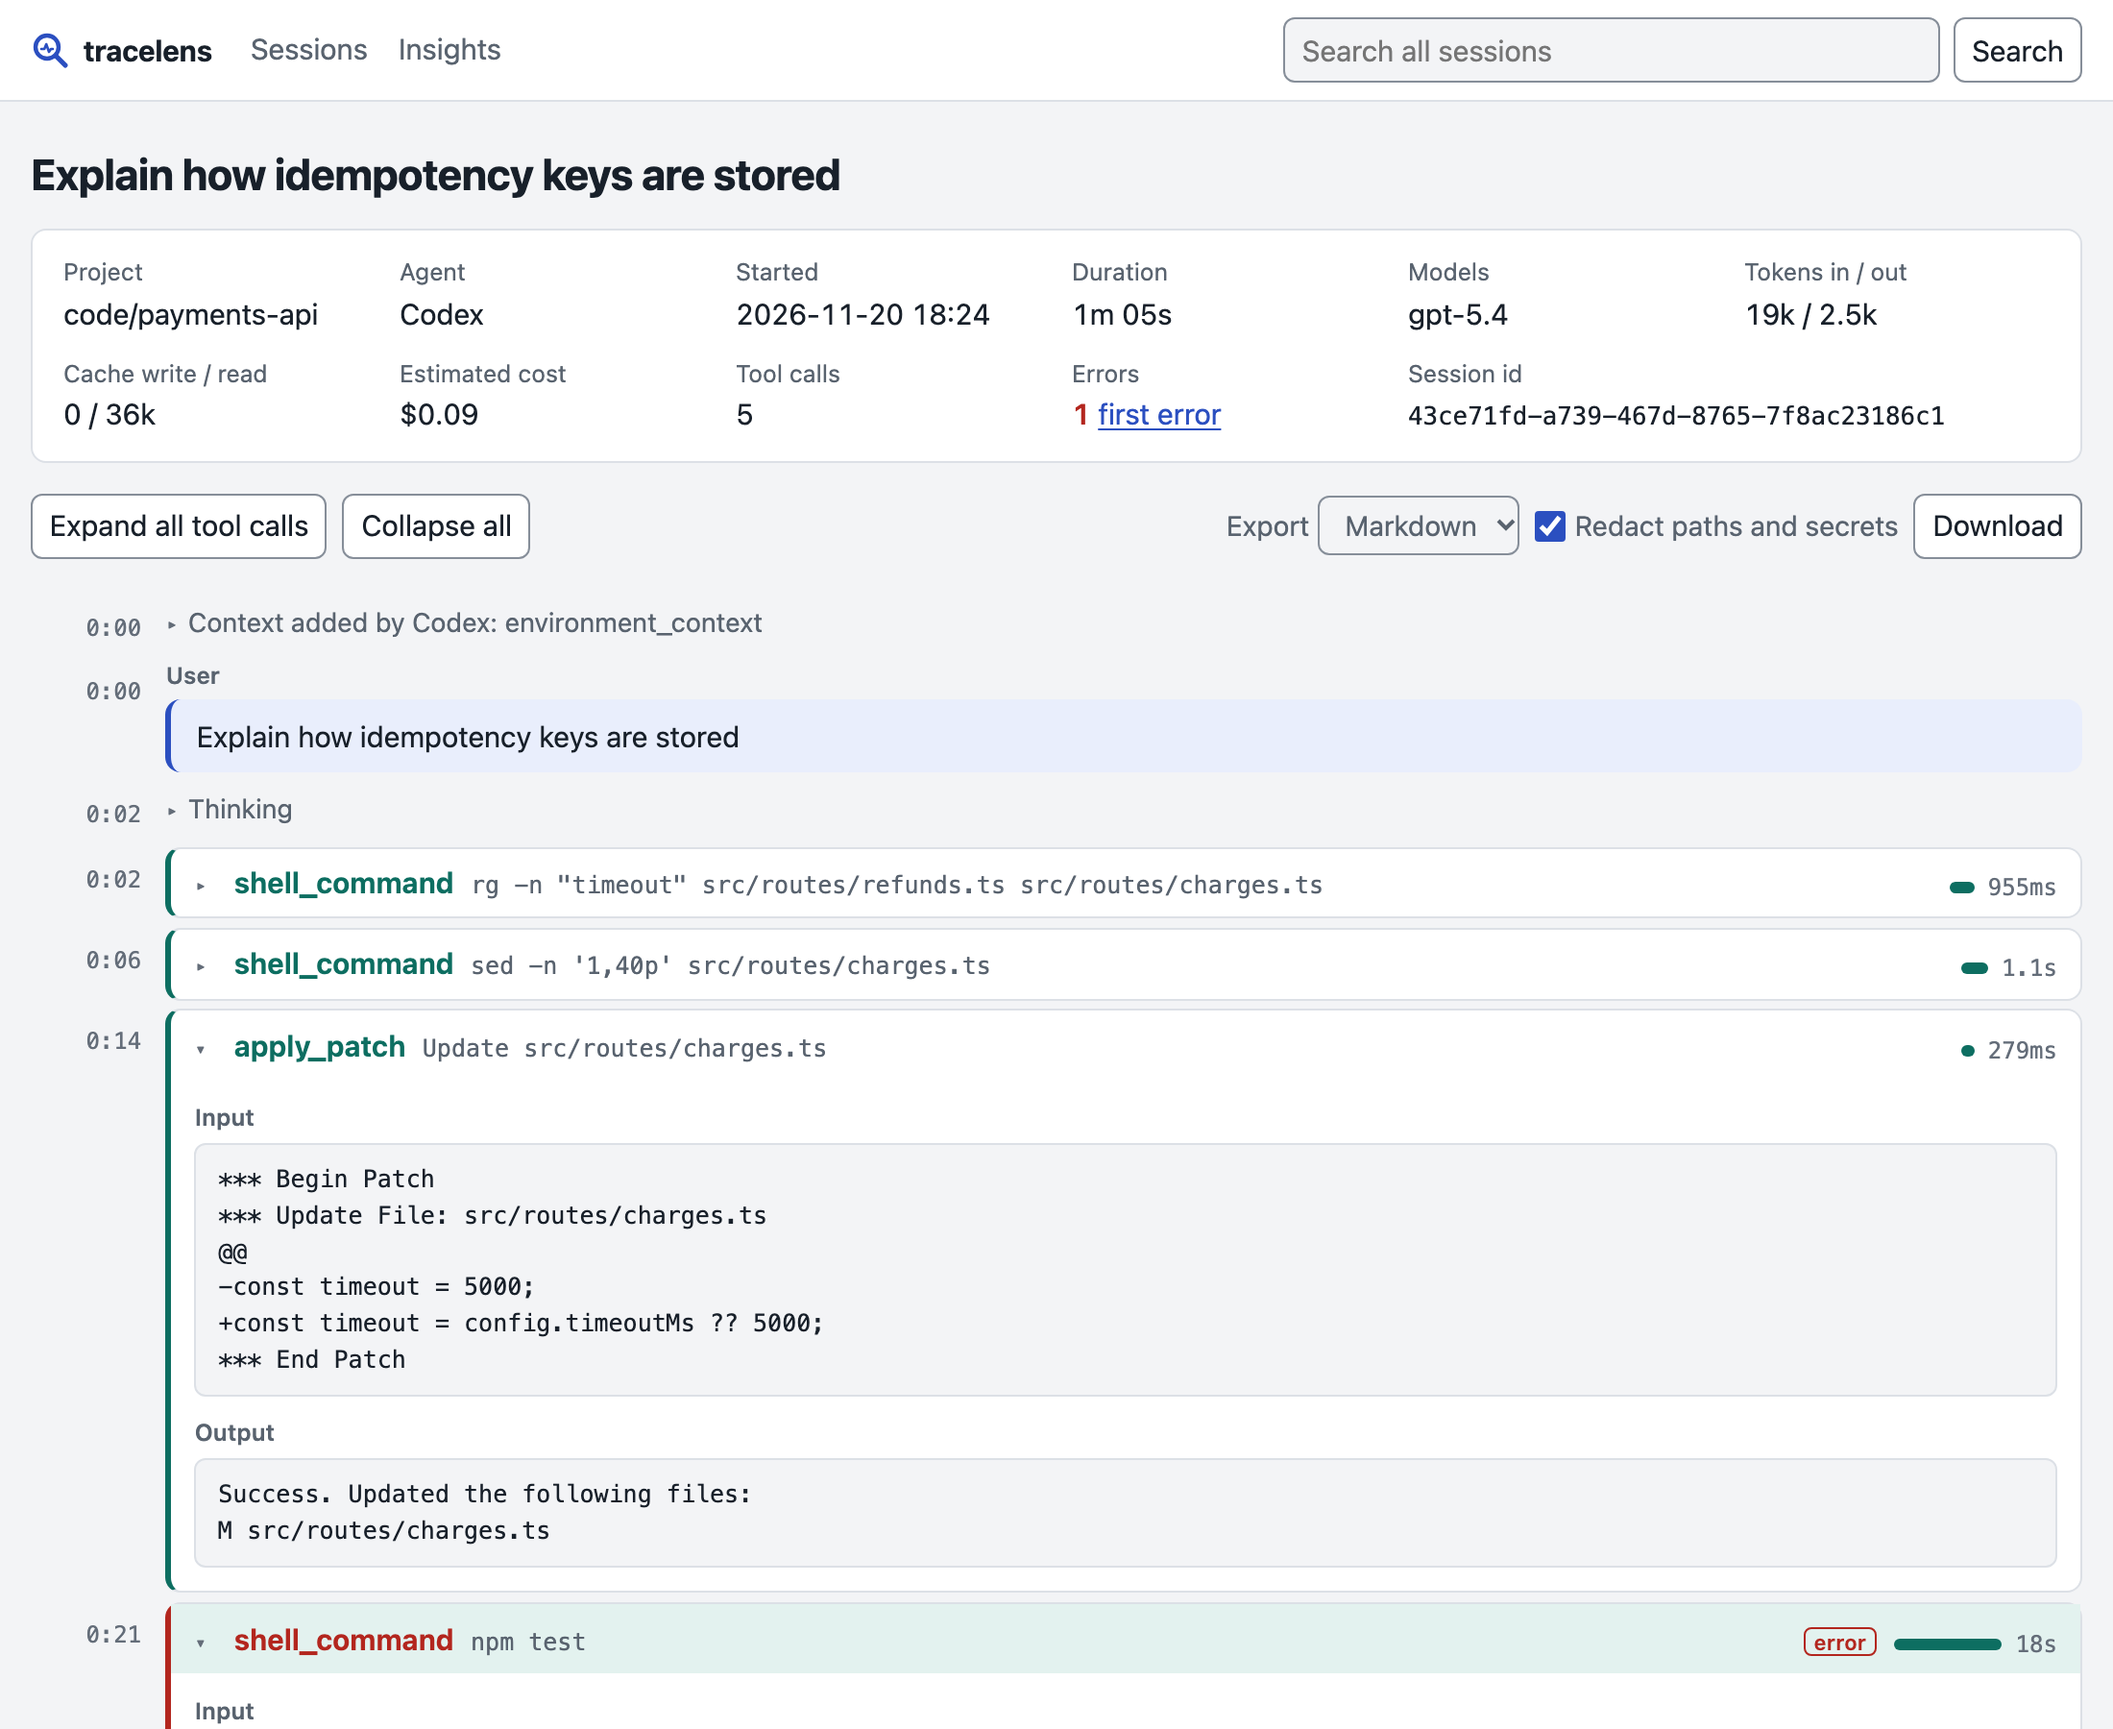
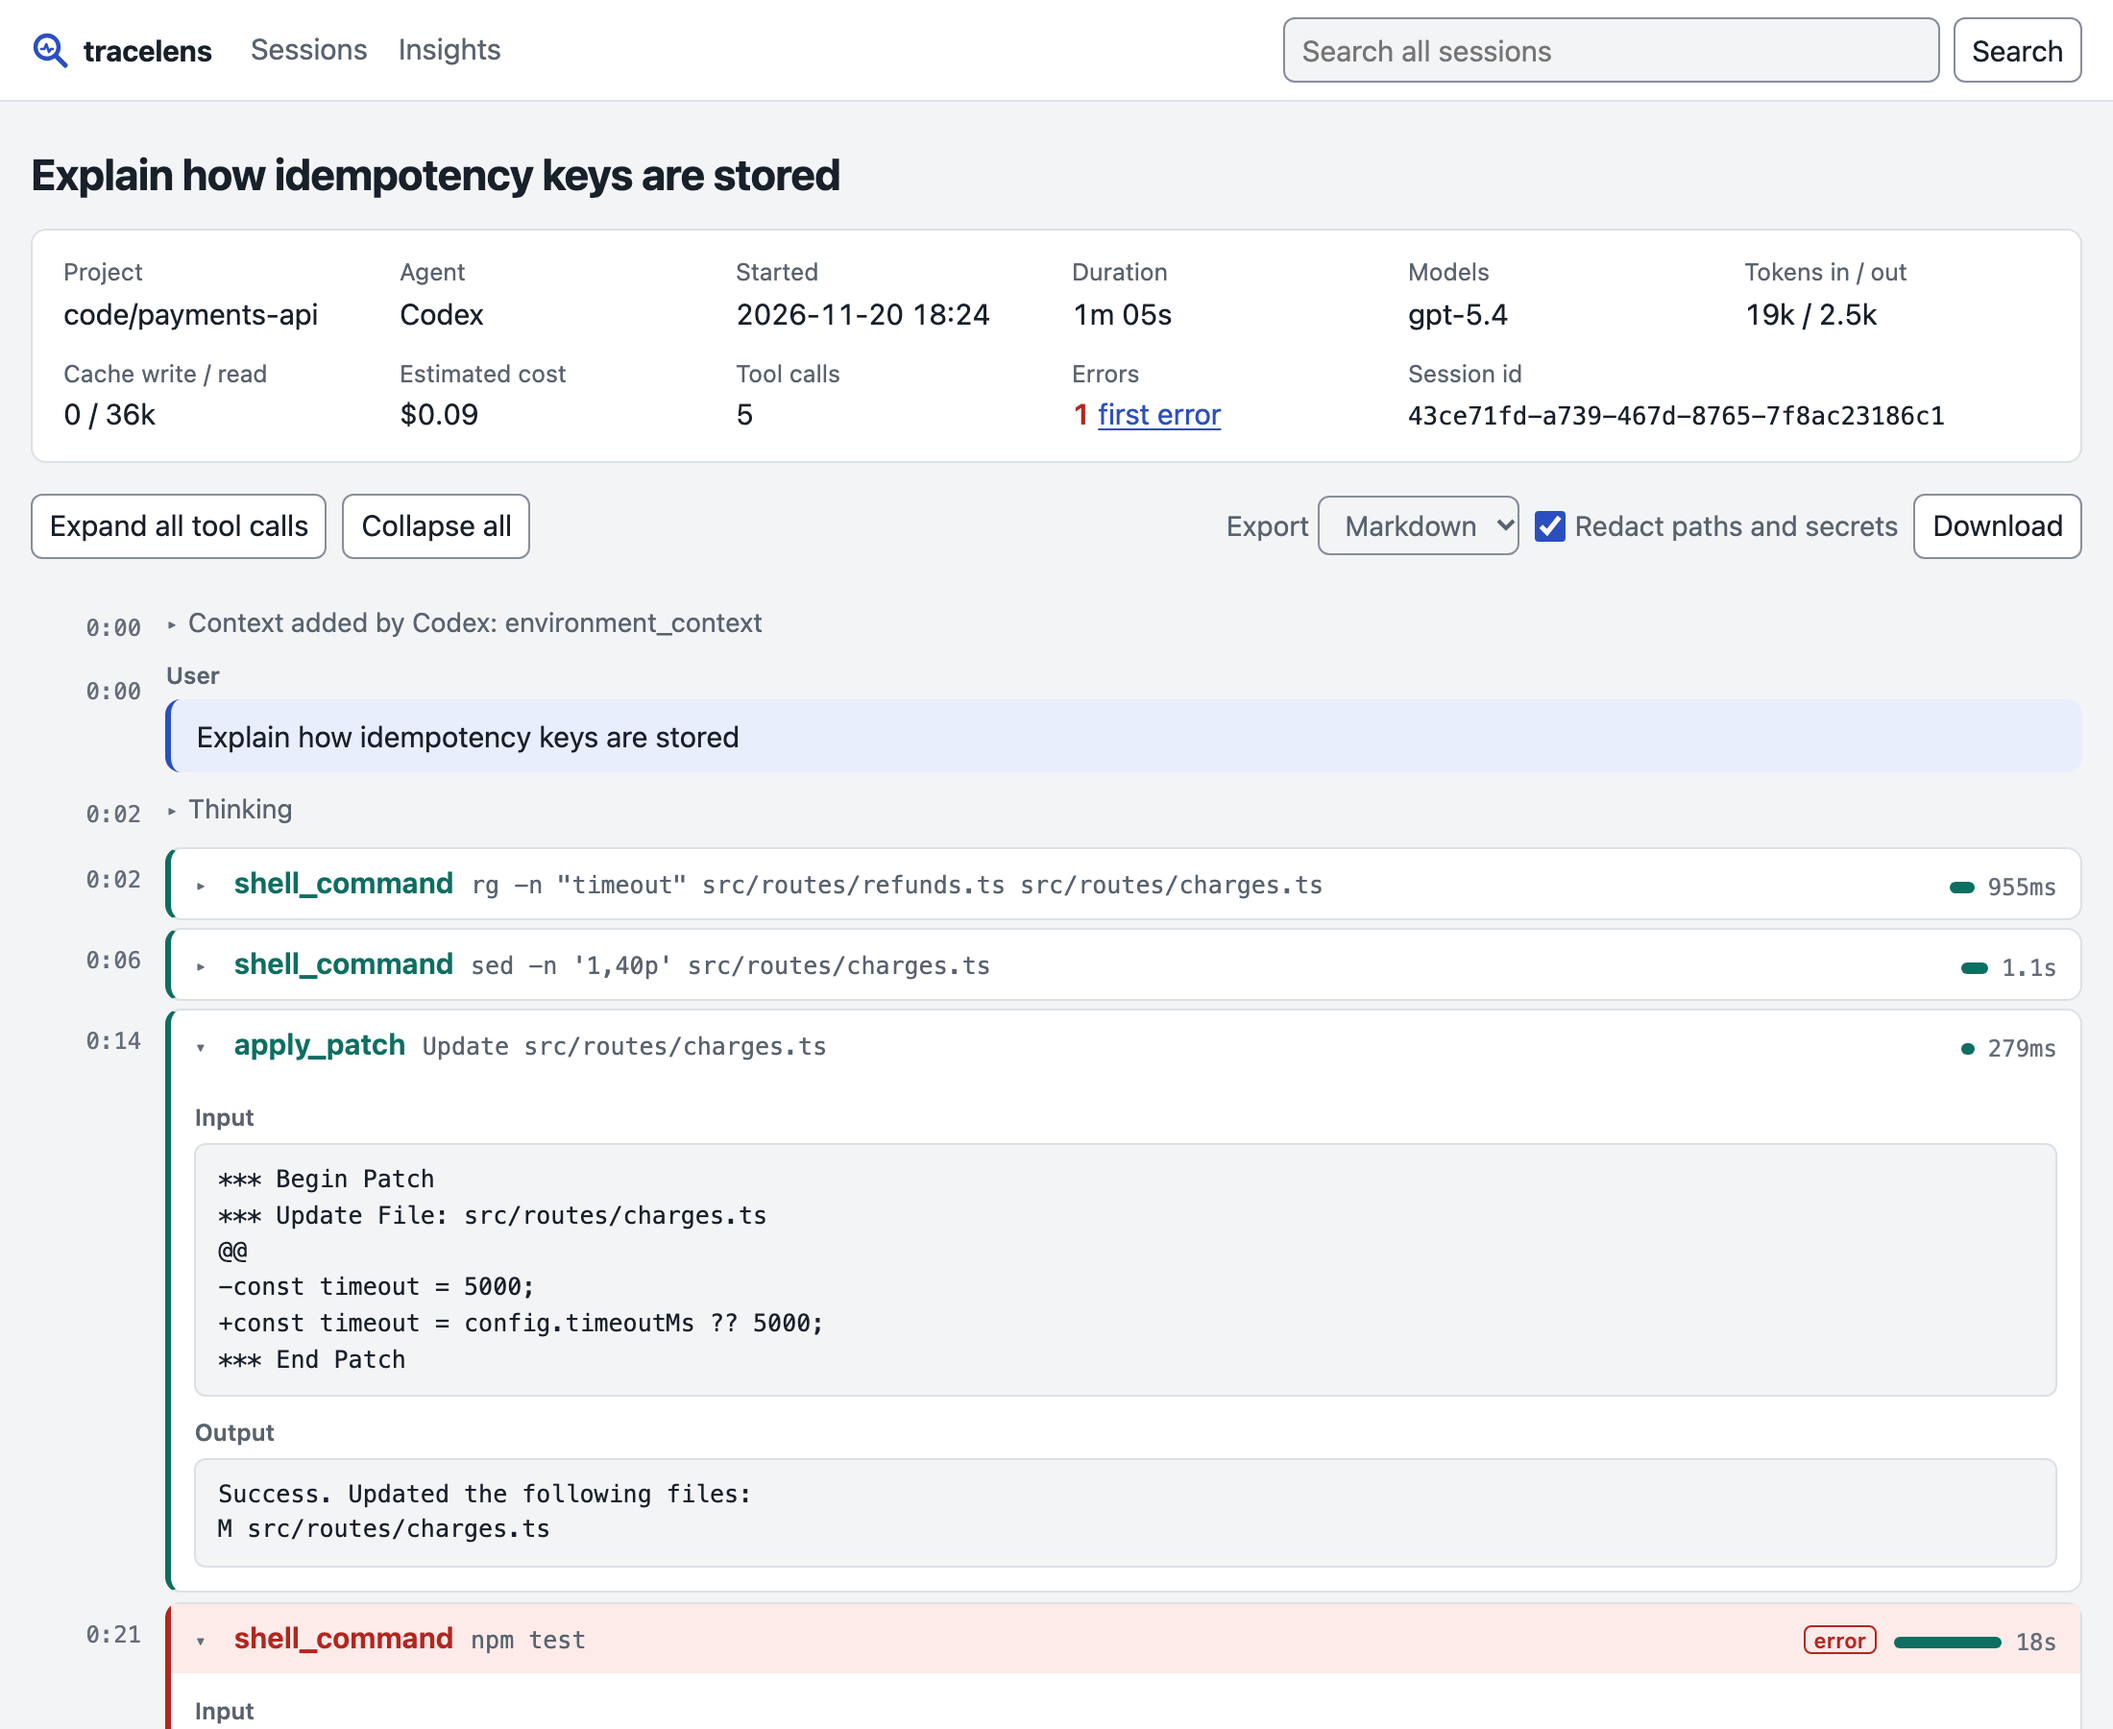
Failed tool calls hover red, not teal; refresh screenshots from the running demo

diff --git a/src/render.ts b/src/render.ts
@@ -114,7 +114,7 @@ details[open]>summary::before{content:"▾"}
 .dur{margin-left:auto;display:flex;align-items:center;gap:.45rem;font:12px var(--mono);color:var(--faint);white-space:nowrap}
 .bar{display:inline-block;height:6px;border-radius:3px;background:var(--tool);min-width:2px}
 .tool.error{border-left-color:var(--err)}
-.tool.error .tname{color:var(--err)}
+.tool.error .tname{color:var(--err)}.tool.error>summary:hover{background:var(--err-soft)}
 .flag{font:600 11px var(--sans);color:var(--err);border:1px solid var(--err);border-radius:4px;padding:0 .3rem}
 .io{padding:.1rem .75rem .75rem}
 .io .lbl{font-size:.76rem;color:var(--muted);margin:.6rem 0 .25rem;font-weight:600}
